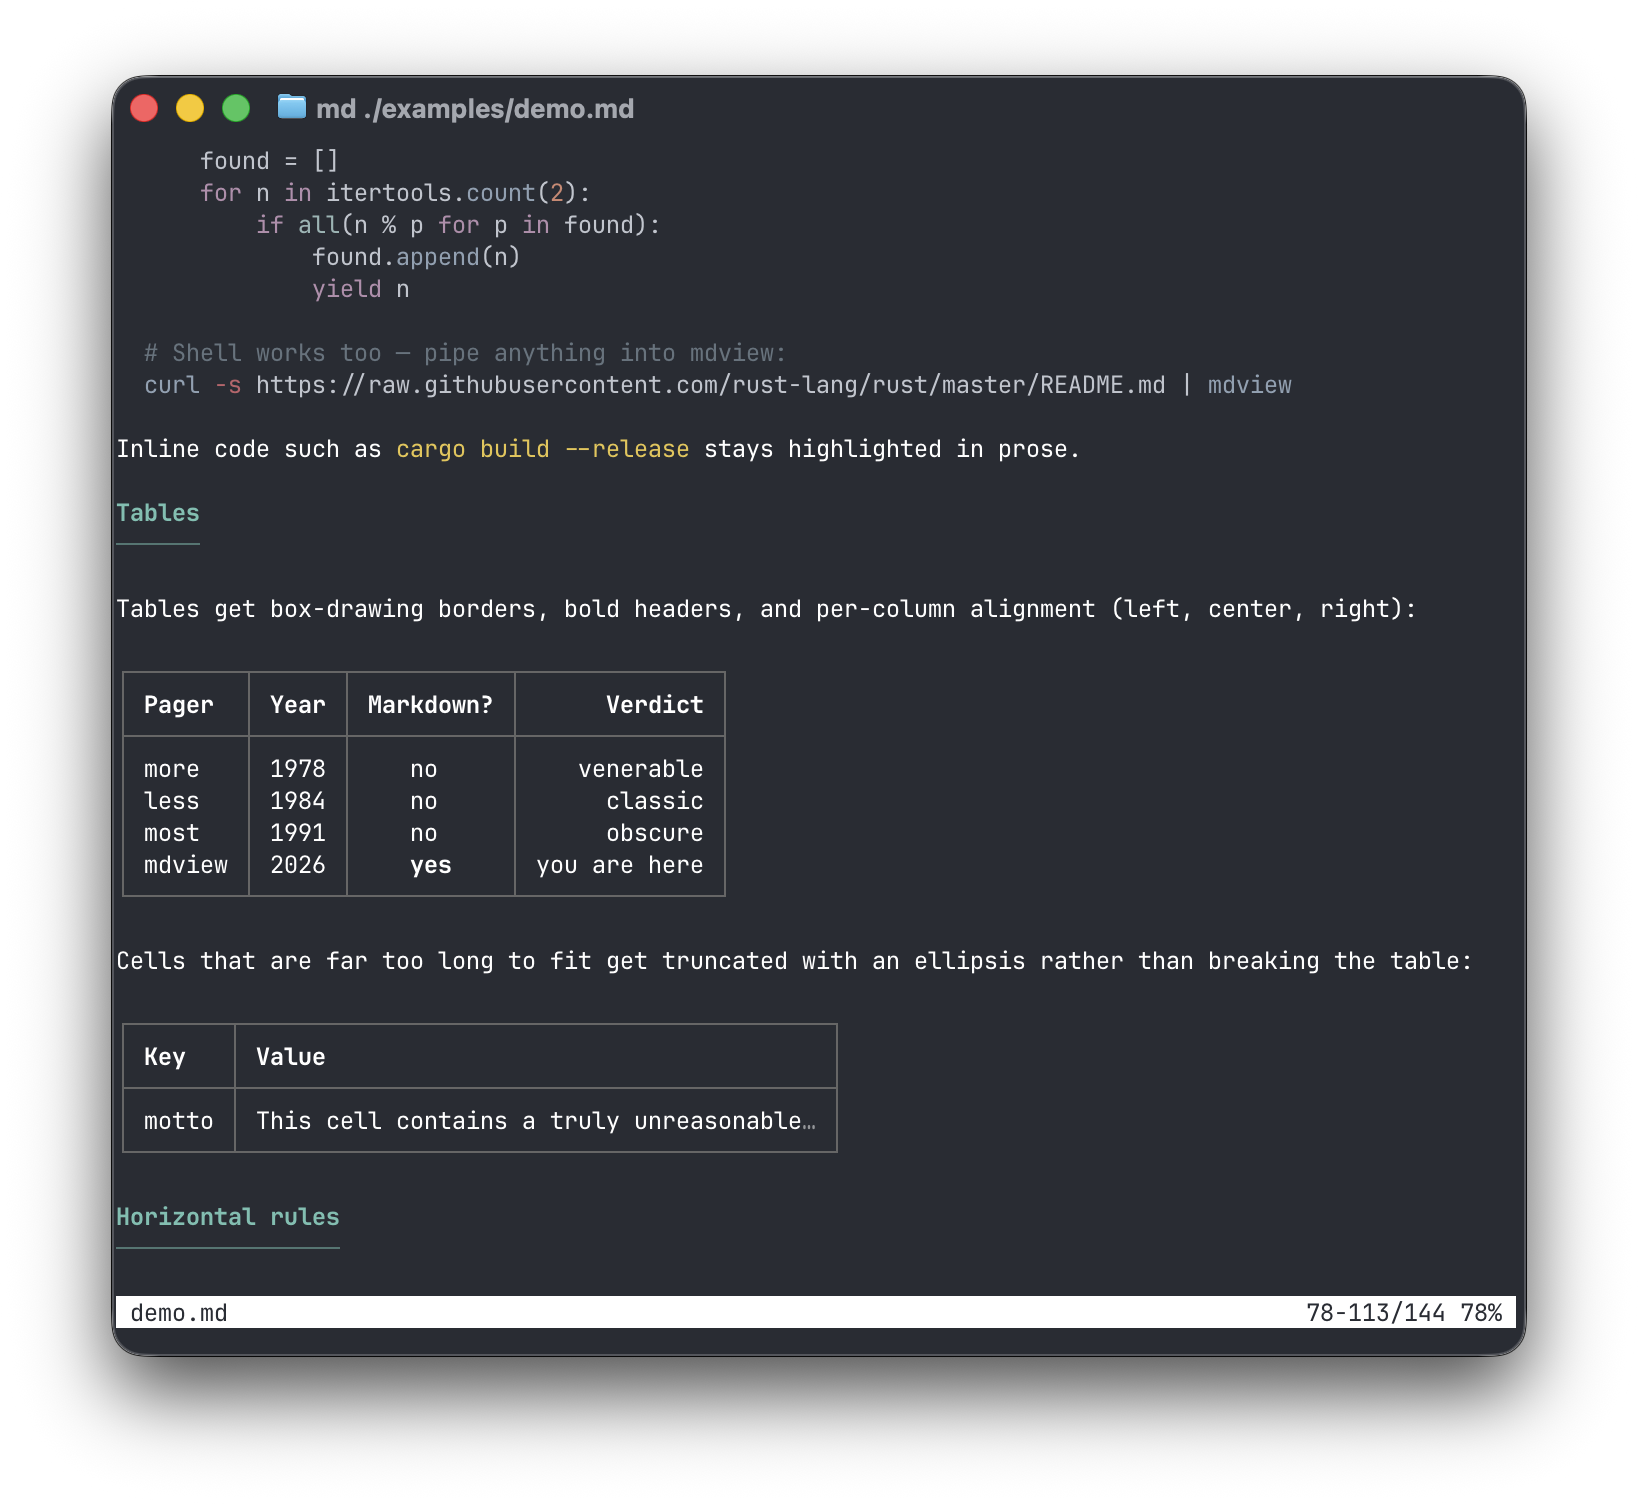
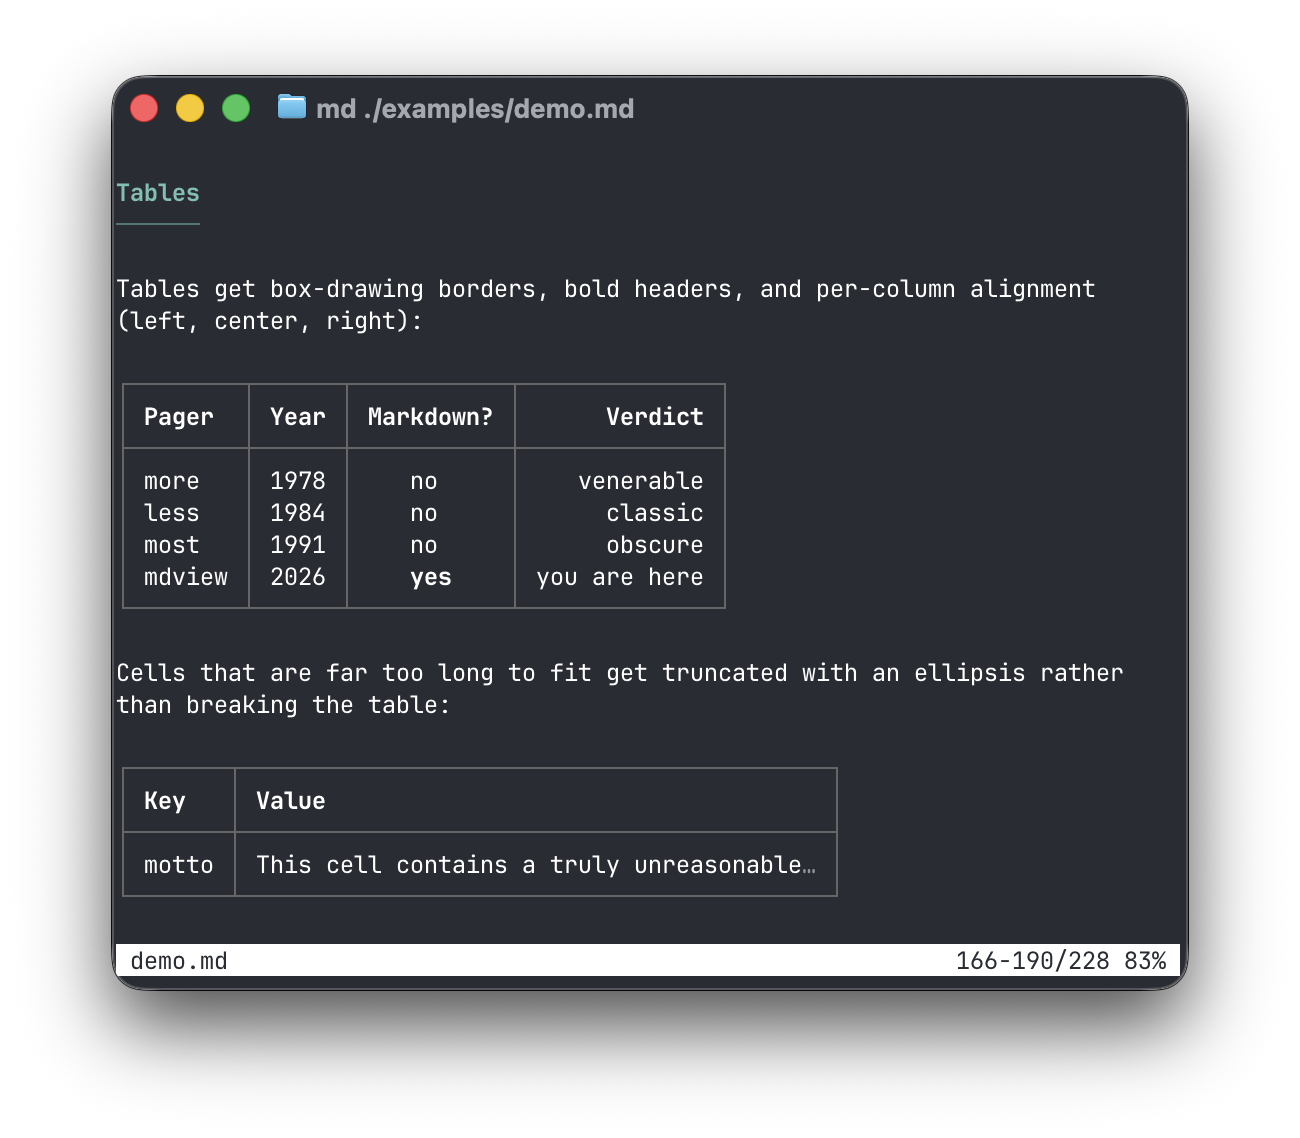
docs: refresh README with feature screenshot gallery
New shots: admonitions, mermaid/LaTeX diagrams, code, lists, inline
kitty-graphics image; retaken tables, TOC, and help overlays.

Claude-Session: https://claude.ai/code/session_01BEsU8u1PogaaHvfpeu3AM8

Changed region(s): [[0.0308, 0.0308, 0.9538, 0.9534], [0.7385, 0.3998, 0.8615, 0.4306], [0.6154, 0.7074, 0.6462, 0.7381]]

diff --git a/README.md b/README.md
@@ -11,14 +11,28 @@ Headings are colored and indexed, paragraphs are reflowed to a configurable
 width, fenced code blocks are syntax-highlighted, tables get box-drawing
 borders, GitHub-style admonitions (`> [!NOTE]`, `> [!WARNING]`, …) get colored
 bars and titles, and links are emitted as OSC 8 hyperlinks (clickable in
-iTerm2, Ghostty, WezTerm, kitty, and friends). In kitty and Ghostty, local
-images render inline at full resolution via the kitty graphics protocol
-(Unicode placeholders, so they scroll like text); other terminals see a
-clickable link instead.
+iTerm2, Ghostty, WezTerm, kitty, and friends). Local images render inline at
+full resolution in any terminal that implements the kitty graphics protocol
+with Unicode placeholders (kitty and Ghostty among them — mdview probes the
+terminal at startup rather than checking names, so protocol-capable terminals
+work automatically); other terminals see a clickable link instead.
 
 ![mdview rendering examples/demo.md](assets/demo.png)
 
-![tables, code, and footnotes rendered by mdview](assets/tables.png)
+| Admonitions | Diagrams & math (```` ```mermaid ````, ```` ```latex ````) |
+|---|---|
+| ![GitHub-style admonitions](assets/admonitions.png) | ![mermaid diagram and LaTeX math rendered inline](assets/diagrams.png) |
+
+| Syntax-highlighted code | Lists & task lists |
+|---|---|
+| ![highlighted code blocks](assets/code.png) | ![nested, ordered, and task lists](assets/lists.png) |
+
+![tables with alignment and cell truncation](assets/tables.png)
+
+And in kitty-protocol terminals, images render inline — here is mdview
+displaying its own README screenshot:
+
+![mdview rendering an image of itself](assets/inline-images.png)
 
 ## Building
 
@@ -42,6 +56,7 @@ cargo build --release   # or: mise exec -- cargo build --release
 | `n` / `N`      | next / previous match               |
 | `]` / `[`      | next / previous heading             |
 | `t`            | table of contents overlay           |
+| `v`            | toggle diagrams rendered / as source |
 | `h`            | help                                |
 | `q`            | quit                                |
 
@@ -59,6 +74,7 @@ Counts work like less: `10j`, `5k`, `42g`.
 -w, --width <N>   reflow paragraphs to at most N columns (this run only)
 -d, --dump        print the rendered document (with ANSI styling) and exit
 -c, --config      open the config file in $EDITOR
+    --clear-cache delete the rendered-diagram cache (mermaid/LaTeX)
 ```
 
 When stdout is not a terminal, mdview prints the rendered document as plain
@@ -79,6 +95,10 @@ wrap_width = 80
 # base16-mocha.dark, base16-ocean.light, InspiredGitHub, Solarized (dark),
 # Solarized (light)
 code_theme = "base16-ocean.dark"
+
+# How mermaid/latex blocks start out: "rendered" diagrams, or their "text"
+# source (toggle with v).
+default_view = "rendered"
 ```
 
-Both keys are optional; `--width` overrides the file.
+All keys are optional; `--width` overrides the file.
